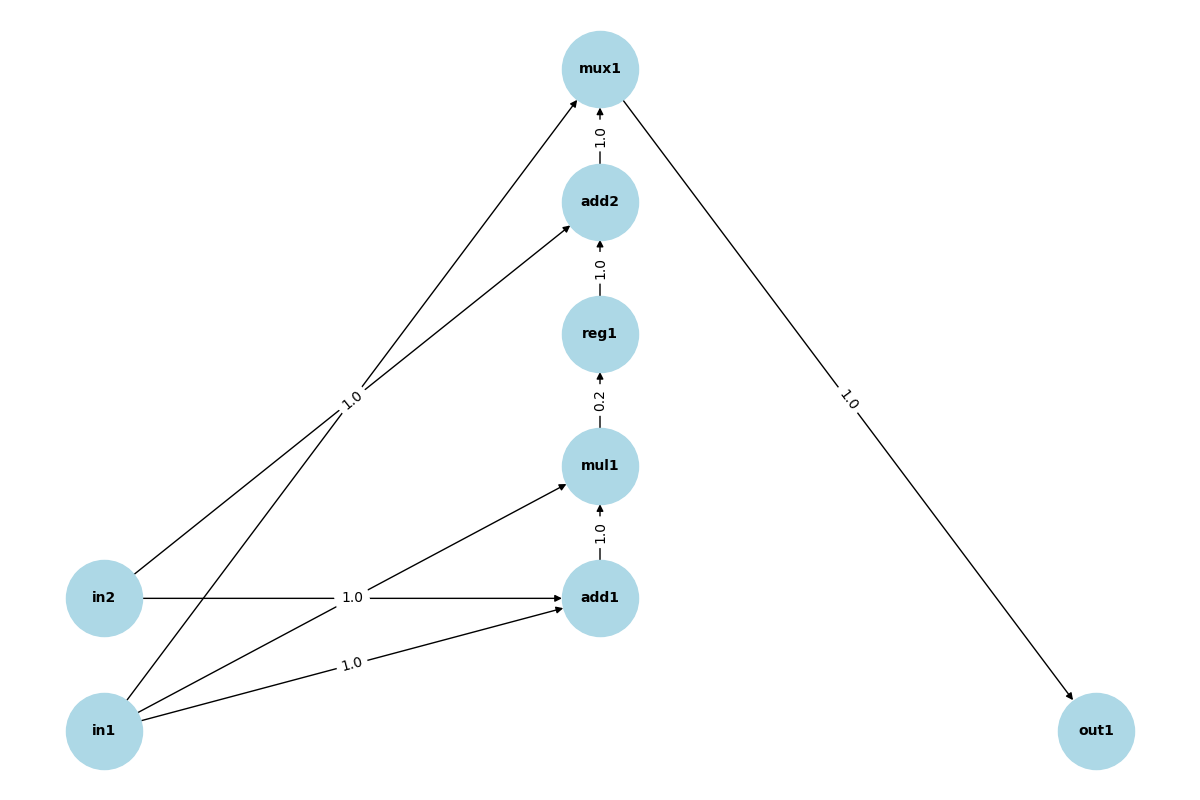
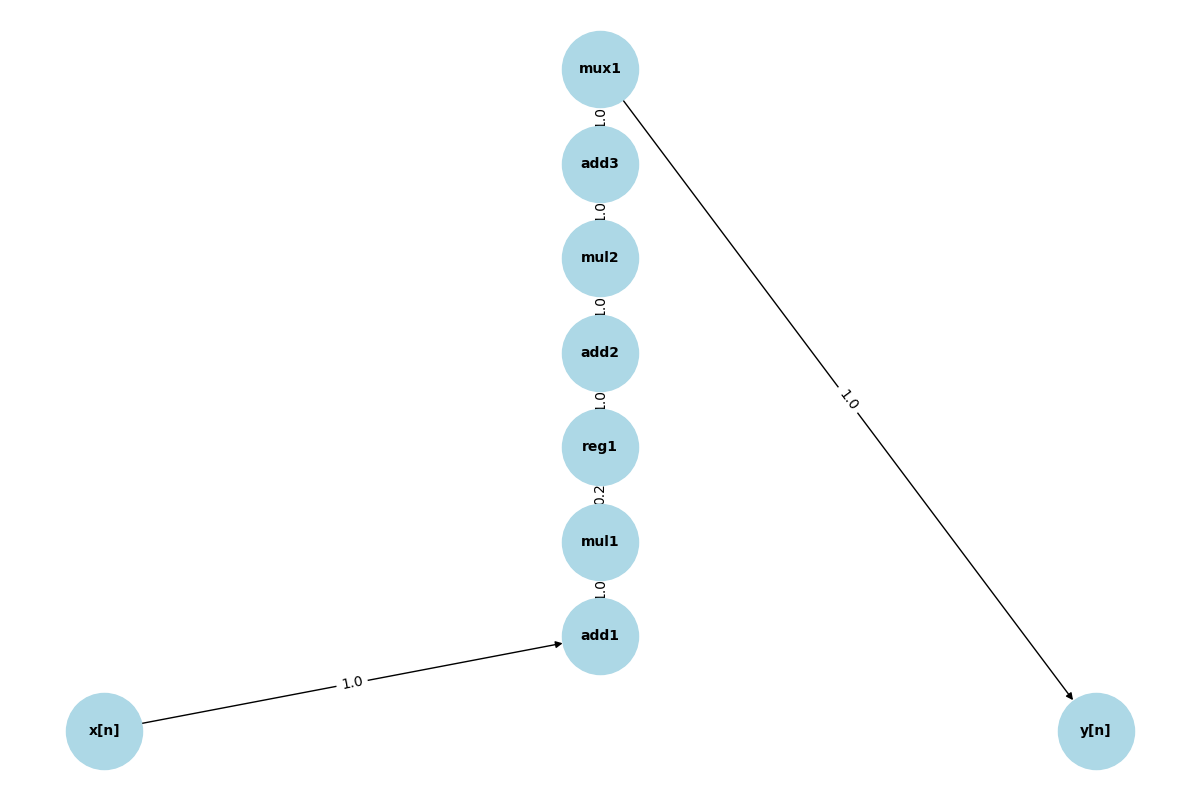
final commit 2

diff --git a/circuit_analyzer.py b/circuit_analyzer.py
@@ -24,9 +24,13 @@ class CircuitAnalyzer:
                     node_type = parts[0]
                     node_id = parts[1]
                     inputs = parts[2:]
+                    # Handle expressions like a^3
+                    processed_inputs = []
+                    for input in inputs:
+                        processed_inputs.extend(self.process_expression(input))
                     circuit_graph[node_id] = {
                         'type': node_type,
-                        'inputs': inputs,
+                        'inputs': processed_inputs,
                         'delay': self.get_delay(node_type)
                     }
         except FileNotFoundError:
@@ -34,6 +38,14 @@ class CircuitAnalyzer:
         except Exception as e:
             raise Exception(f"Error parsing {self.filename}: {e}")
         return circuit_graph
+
+    @staticmethod
+    def process_expression(expression):
+        if '^' in expression:
+            base, exponent = expression.split('^')
+            exponent = int(exponent)
+            return [f"{base}"] * exponent
+        return [expression]
 
     @staticmethod
     def get_delay(node_type):

diff --git a/parse_circuit.py b/parse_circuit.py
@@ -9,9 +9,13 @@ def parse_circuit(filename):
                 node_type = parts[0]
                 node_id = parts[1]
                 inputs = parts[2:]
+                # Handle expressions like a^3
+                processed_inputs = []
+                for input in inputs:
+                    processed_inputs.extend(process_expression(input))
                 circuit_graph[node_id] = {
                     'type': node_type,
-                    'inputs': inputs,
+                    'inputs': processed_inputs,
                     'delay': get_delay(node_type)
                 }
     except FileNotFoundError:
@@ -19,6 +23,13 @@ def parse_circuit(filename):
     except Exception as e:
         raise Exception(f"Error parsing {filename}: {e}")
     return circuit_graph
+
+def process_expression(expression):
+    if '^' in expression:
+        base, exponent = expression.split('^')
+        exponent = int(exponent)
+        return [f"{base}^{exponent}"]
+    return [expression]
 
 def get_delay(node_type):
     delays = {
